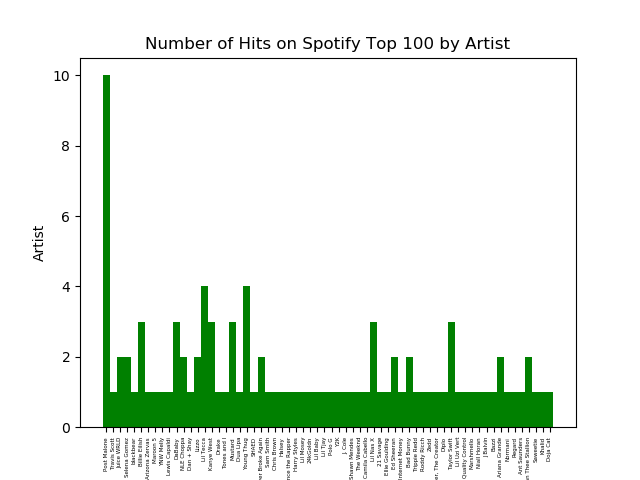
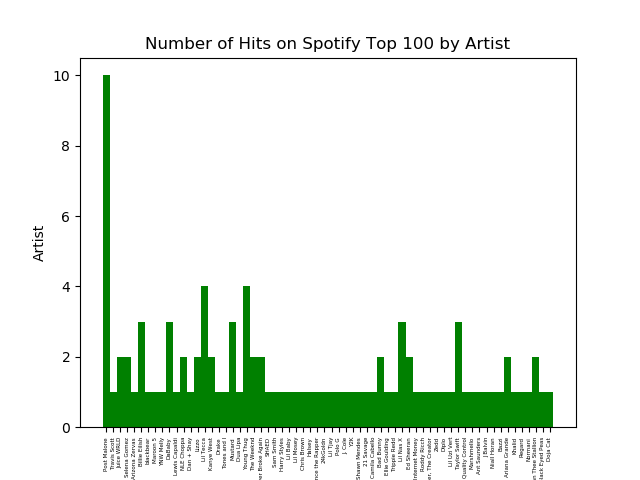
updates

diff --git a/finalproject206/FINALPROJECT.py b/finalproject206/FINALPROJECT.py
@@ -1,3 +1,4 @@
+import unittest
 import spotipy
 from spotipy.oauth2 import SpotifyClientCredentials
 import requests
@@ -9,67 +10,96 @@ import matplotlib.pyplot as plt
 
 # deezer
 def get_deezer():
-    r = requests.get("https://api.deezer.com/chart/0?&output=json")
+    r = requests.get("https://api.deezer.com/playlist/1313621735?&output=json")
     data = r.text
     deezer = json.loads(data)
     return deezer
 
+def deezer_database(d):
+    conn = sqlite3.connect('deezer_top.sqlite')
+    cur = conn.cursor()
+    cur.execute('DROP TABLE IF EXISTS deezer_top')
+    cur.execute('CREATE TABLE deezer_top(title TEXT, artist TEXT)')
+    d = d["tracks"]["data"]
+    for i in range(0,100):
+        title = d[i]["title"]
+        artist = d[i]["artist"]["name"]
+        cur.execute("INSERT INTO deezer_top (title, artist) VALUES (?, ?)", (title, artist))
+    conn.commit()
 
+def deezer_dictionary():
+    deezer_dic = {}
+    
+        
+
+
+def spotify_database():
 # spotify:
-cid = "28678d88fa6b4267aaa4d49045c23920"
-secret = "bd63a7354a6a4285a7d46bfb737daadb"
+    cid = "28678d88fa6b4267aaa4d49045c23920"
+    secret = "bd63a7354a6a4285a7d46bfb737daadb"
 
-client_credentials_manager = SpotifyClientCredentials(client_id=cid, client_secret=secret)
-sp = spotipy.Spotify(client_credentials_manager=client_credentials_manager)
+    client_credentials_manager = SpotifyClientCredentials(client_id=cid, client_secret=secret)
+    sp = spotipy.Spotify(client_credentials_manager=client_credentials_manager)
 
-conn = sqlite3.connect('Spotify_top.sqlite')
-cur = conn.cursor()
-cur.execute('DROP TABLE IF EXISTS Spotify_top')
-cur.execute('CREATE TABLE Spotify_top(title TEXT, artist TEXT)')
-for i in range(0,100,20):
-    track_results = sp.search(q='year:2019', type='track', limit=20, offset=i)
-    for i, t in enumerate(track_results['tracks']['items']):    
-        __title = t['name'] 
-        __artist = t['artists'][0]['name']
-        cur.execute("INSERT INTO Spotify_top (title, artist) VALUES (?, ?)", (__title, __artist))
-conn.commit()
+    conn = sqlite3.connect('Spotify_top.sqlite')
+    cur = conn.cursor()
+    cur.execute('DROP TABLE IF EXISTS Spotify_top')
+    cur.execute('CREATE TABLE Spotify_top(title TEXT, artist TEXT)')
+    for i in range(0,100,20):
+        track_results = sp.search(q='year:2019', type='track', limit=20, offset=i)
+        for i, t in enumerate(track_results['tracks']['items']):    
+            __title = t['name'] 
+            __artist = t['artists'][0]['name']
+            cur.execute("INSERT INTO Spotify_top (title, artist) VALUES (?, ?)", (__title, __artist))
+    conn.commit()
 
-
+def make_graph():
 # seperate doc?
-conn = sqlite3.connect("Spotify_top.sqlite")
-cur = conn.cursor()
+    conn = sqlite3.connect("Spotify_top.sqlite")
+    cur = conn.cursor()
 
-cur.execute("SELECT * FROM Spotify_top")
-spotify_artist_dict = {}
-for row in cur:
-    spotify_artist = row[1]
-    spotify_artist_dict[spotify_artist] = spotify_artist_dict.get(spotify_artist, 0) + 1
+    cur.execute("SELECT * FROM Spotify_top")
+    spotify_artist_dict = {}
+    for row in cur:
+        spotify_artist = row[1]
+        spotify_artist_dict[spotify_artist] = spotify_artist_dict.get(spotify_artist, 0) + 1
 
-with open('spotify_data.text', 'w') as outfile:
-    json.dump(spotify_artist_dict, outfile) 
+    with open('spotify_data.text', 'w') as outfile:
+        json.dump(spotify_artist_dict, outfile) 
 
 #Assign the x values to the keys of the dictionary and the y values to the values that correspond to those keys
-y_values = spotify_artist_dict.keys()
-x_values = spotify_artist_dict.values() 
+    x_values = spotify_artist_dict.values()
+    y_values = spotify_artist_dict.keys() 
 
 #Plot the bar chart with xvals and yvals. Align the bars in center and assign a color to each bar.
-index = np.arange(len(x_values))
-plt.bar(index, x_values, align='center', width =1.0, color = ["green"])
+    index = np.arange(len(y_values))
+    plt.barh(index, y_values, align='center', height =2.0, color = ["green"])
 
 #Give ylabel to the plot
-plt.xlabel("Number of Songs on Spotify Top 100 by Artist")
+    plt.ylabel("Artist")
 
 #Give xlabel to the plot
-plt.ylabel("Artist")
+    plt.xlabel("Number of Songs on Spotify Top 100 by Artist")
 
 #Give the title to the plot
-plt.title("Number of Hits on Spotify Top 100 by Artist") 
+    plt.title("Number of Hits on Spotify Top 100 by Artist") 
 
 #Adjust the placement of the x-axis labels 
-plt.xticks(index, y_values, rotation=90, fontsize = 4) 
+    plt.xticks(index, x_values, rotation=90, fontsize = 4) 
+
 
 #Save the plot as a .png file
-plt.savefig("spotify_artists.png")
+    plt.savefig("spotify_artists.png")
 
-#Show the plot
-plt.show()
+# Show the plot
+    plt.show()
+
+
+
+def main():
+    d = get_deezer()
+    deezer_database(d)
+
+if __name__ == "__main__":
+    main()
+    unittest.main(verbosity = 2)
